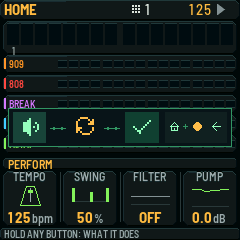
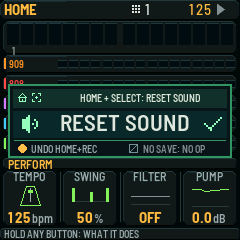
docs(mockups): clarify sound-reset chord and held FX effect display

Changed region(s): [[0.0292, 0.35, 0.9917, 0.6708]]

diff --git a/docs/mockups/items-4-6-7-0.0.24/render_only.c b/docs/mockups/items-4-6-7-0.0.24/render_only.c
@@ -8,40 +8,36 @@
 #include "../../../tests/host/smc_ui_test.c"
 #undef SMC_UI_MAIN
 
-static void mini_connector(int x,int y,uint16_t c)
-{
-    cv_line(x,y,x+15,y,c);
-    cv_rect(x+3,y-1,2,3,c);
-    cv_rect(x+11,y-1,2,3,c);
-}
 
 static void item4_sound_recall_proposal(void)
 {
     const uint16_t mint=RGB(149,255,185), edge=RGB(49,151,102);
-    const uint16_t gold=RGB(255,190,77);
-    const uint16_t face=RGB(12,31,32);
-    /* Transient native canvas overlay ON the existing HOME view. */
-    cv_begin(224,39,face);
-    cv_rect(0,0,224,39,RGB(8,23,26));
-    cv_rect(0,0,224,1,edge);
-    cv_rect(0,38,224,1,edge);
-    cv_rect(0,0,1,39,edge);
-    cv_rect(223,0,1,39,edge);
-    cv_rect(5,4,33,31,RGB(26,68,58));
-    ui_pictogram(13,10,UI_G_SOUND,2,mint);
-    mini_connector(42,20,edge);
-    ui_pictogram(68,9,UI_G_CYCLE,2,gold);
-    mini_connector(96,20,edge);
-    cv_rect(117,4,34,31,RGB(18,67,48));
-    ui_pictogram(125,10,UI_G_CHECK,2,mint);
-    /* The right-hand glyph chord shows HOME+REC for undo. */
-    cv_rect(157,4,62,31,RGB(19,35,36));
-    ui_pictogram(162,14,UI_G_HOME,1,mint);
-    cv_rect(175,18,5,1,edge);
-    cv_rect(177,16,1,5,edge);
-    ui_pictogram(185,14,UI_G_RECORD,1,gold);
-    ui_pictogram(204,14,UI_G_PREV,1,mint);
-    cv_blit(8,108);
+    const uint16_t gold=RGB(255,190,77), ghost=RGB(112,144,148);
+    /* Review-only transient notice over the real HOME framebuffer.
+     * Glyphs disambiguate the SMC HOME + strip SELECT shortcut from keyboard
+     * HOME + black key (mute). The latter is never shown in this proposal.
+     * Engine-only reset, with mixer state invariant; missing saved sound => no-op.
+     */
+    cv_begin(224,74,RGB(10,25,30));
+    cv_rect(0,0,224,74,RGB(9,23,28));
+    cv_rect(0,0,224,2,edge);
+    cv_rect(0,72,224,2,edge);
+    cv_rect(0,0,2,74,edge);
+    cv_rect(222,0,2,74,edge);
+    cv_rect(5,5,214,19,RGB(21,48,46));
+    ui_pictogram(10,9,UI_G_HOME,1,mint);
+    ui_pictogram(24,9,UI_G_SELECT,1,mint);
+    text_c(132,8,&FONT_T,"HOME + SELECT: RESET SOUND",C_WHITE);
+    cv_rect(5,27,214,27,RGB(15,41,41));
+    ui_pictogram(12,31,UI_G_SOUND,2,mint);
+    text_c(117,28,&FONT_M,"RESET SOUND",C_WHITE);
+    ui_pictogram(196,31,UI_G_CHECK,2,mint);
+    cv_rect(6,56,212,1,edge);
+    ui_pictogram(10,60,UI_G_RECORD,1,gold);
+    cv_text(23,59,&FONT_T,"UNDO HOME+REC",C_GRAY);
+    ui_pictogram(121,60,UI_G_FX_EMPTY,1,ghost);
+    cv_text(135,59,&FONT_T,"NO SAVE: NO OP",C_DIM);
+    cv_blit(8,84);
 }
 
 static void paint_fx_cell(int strip,int row,int glyph,uint16_t ink,int selected)
@@ -56,48 +52,83 @@ static void paint_fx_cell(int strip,int row,int glyph,uint16_t ink,int selected)
     cv_blit(x,y);
 }
 
+
+/* The audio effect's source name is still governed by the production
+ * SMCFX table. This fixture visualizes the REVERB effect on the Chicago
+ * SELECT FX button (index 3, page 0), rather than inventing a value. */
 static void item6_fx_proposal(int fill_active)
 {
     const uint16_t amber=RGB(255,190,77), bright=RGB(145,239,246);
     const uint16_t green=RGB(152,247,160), dim=RGB(45,70,72);
-    /* Item 6 changes only the existing eight-strip mixer window. A dedicated
-       BRK strip REC button (SMC note 2) is proposed as a drum-fill gesture.
-       FX button held on RVB SELECT remains momentary; arrows step its effect. */
     for(int n=0;n<8;n++) {
         int bus=smc_fx_bus_now((uint8_t)(24+n));
         if(bus<0) continue;
         unsigned fx=smcfx_strip_get(&smc.fx_strip,smc.fx_page,bus,SMCFX_SELECT);
         int symbol=smc_fx_symbol(fx);
         if(symbol==UI_G_NONE)symbol=UI_G_FX_EMPTY;
-        paint_fx_cell(n,3,symbol,n==5?bright:C_GRAY,n==5);
+        int highlighted=fill_active ? (n==5) : (n==3);
+        paint_fx_cell(n,3,symbol,highlighted?bright:C_GRAY,highlighted);
     }
-    /* Dedicated fill button has an unambiguous roll/step glyph, never CYC. */
-    paint_fx_cell(2,2,UI_G_FX_STUTTER,fill_active?C_WHITE:amber,1);
-    /* Two compact feedback islands in the existing 82px mixer footer. */
+    /* Verify the highlighted CHICAGO SELECT button really holds REVERB
+     * in the unchanged pinned base, rather than labeling an invented FX. */
+    if(!fill_active) {
+        int held_bus=smc_fx_bus_now(27u);
+        CHECK(held_bus==3);
+        CHECK(smcfx_strip_get(&smc.fx_strip,smc.fx_page,
+                              held_bus,SMCFX_SELECT)==SMCFX_REV);
+        CHECK(tw(&FONT_T,"HOME + SELECT: RESET SOUND")<185);
+        CHECK(tw(&FONT_M,"REVERB")<174);
+    }
+    /* BRK REC (note 2) is the proposed fill button, replacing one FX throw. */
+    paint_fx_cell(2,2,UI_G_FX_STUTTER,fill_active?C_WHITE:amber,fill_active);
+
     cv_begin(240,KNOB_H,C_BLACK);
     cv_rect(0,0,240,1,C_LINE);
-    cv_rect(5,7,108,67,RGB(14,27,32));
-    cv_rect(5,7,108,1,fill_active?C_WHITE:amber);
-    cv_rect(5,73,108,1,RGB(68,76,64));
-    cv_rect(125,7,110,67,RGB(15,32,37));
-    cv_rect(125,7,110,1,bright);
-    cv_rect(125,73,110,1,dim);
-    ui_pictogram(15,15,UI_G_PATTERN,2,amber);
-    ui_pictogram(49,14,UI_G_FX_STUTTER,2,fill_active?C_WHITE:amber);
-    ui_pictogram(84,19,fill_active?UI_G_PLAY:UI_G_HOLD,1,fill_active?green:C_GRAY);
-    for(int k=0;k<8;k++) {
-        int h=(k%3==0?12:k%3==1?7:16);
-        int x=12+k*12;
-        uint16_t c=fill_active && (k==1||k==3||k==5||k==6)?green:(k<5?amber:dim);
-        cv_rect(x,64-h,7,h,c);
-        cv_rect(x,65,7,2,dim);
+    if(!fill_active) {
+        /* One single footer, no confusing mini-grid. Both icon and text
+         * identify the HOLD + arrows instruction while the current effect
+         * name dominates. All primitives belong to the real firmware UI. */
+        cv_rect(5,5,230,72,RGB(13,31,36));
+        cv_rect(5,5,230,1,bright);
+        cv_rect(5,76,230,1,dim);
+        cv_rect(5,5,1,72,dim);
+        cv_rect(234,5,1,72,dim);
+        cv_rect(11,9,51,18,RGB(22,61,64));
+        ui_pictogram(15,10,UI_G_HOLD,1,amber);
+        ui_pictogram(33,10,UI_G_FX_REVERB,1,bright);
+        text_c(146,10,&FONT_B,"FX + < >",C_WHITE);
+        cv_rect(12,30,216,1,dim);
+        ui_pictogram(16,42,UI_G_PREV,2,bright);
+        ui_pictogram(206,42,UI_G_NEXT,2,bright);
+        text_c(120,34,&FONT_M,"REVERB",C_WHITE);
+        cv_rect(83,69,74,2,dim);
+        cv_rect(100,69,40,2,bright);
+    } else {
+        /* The fill screenshot is intentionally unchanged from v1 so the
+         * separate owner's fill-placement proposal stays reviewable. */
+        cv_rect(5,7,108,67,RGB(14,27,32));
+        cv_rect(5,7,108,1,C_WHITE);
+        cv_rect(5,73,108,1,RGB(68,76,64));
+        cv_rect(125,7,110,67,RGB(15,32,37));
+        cv_rect(125,7,110,1,bright);
+        cv_rect(125,73,110,1,dim);
+        ui_pictogram(15,15,UI_G_PATTERN,2,amber);
+        ui_pictogram(49,14,UI_G_FX_STUTTER,2,C_WHITE);
+        ui_pictogram(84,19,UI_G_PLAY,1,green);
+        for(int k=0;k<8;k++) {
+            int h=(k%3==0?12:k%3==1?7:16);
+            int x=12+k*12;
+            uint16_t c=(k==1||k==3||k==5||k==6)?green:(k<5?amber:dim);
+            cv_rect(x,64-h,7,h,c);
+            cv_rect(x,65,7,2,dim);
+        }
+        ui_pictogram(137,25,UI_G_PREV,2,bright);
+        ui_pictogram(166,21,UI_G_FX_REVERB,3,C_GRAY);
+        ui_pictogram(207,25,UI_G_NEXT,2,bright);
+        ui_pictogram(175,54,UI_G_HOLD,1,C_GRAY);
+        cv_rect(157,65,55,2,dim);
+        cv_rect(173,65,24,2,amber);
     }
-    ui_pictogram(137,25,UI_G_PREV,2,bright);
-    ui_pictogram(166,21,UI_G_FX_REVERB,3,fill_active?C_GRAY:C_WHITE);
-    ui_pictogram(207,25,UI_G_NEXT,2,bright);
-    ui_pictogram(175,54,UI_G_HOLD,1,C_GRAY);
-    cv_rect(157,65,55,2,dim);
-    cv_rect(173,65,24,2,fill_active?amber:bright);
     cv_blit(0,KNOB_Y);
 }
 

diff --git a/docs/mockups/items-4-6-7-0.0.24/README.md b/docs/mockups/items-4-6-7-0.0.24/README.md
@@ -31,8 +31,14 @@ parameters to their project-saved values**. It must not restore mixer
 level, pan, sends or mute. It must add one undo transaction so existing
 HOME+REC undoes the reset. No accidental navigation from the SELECT
 button on a successful chord. The transient sound/recall/check glyph
-uses the existing HOME screen, and its HOME+REC pictogram illustrates
-undo. The glyph changes only the mockup, not firmware behavior.
+uses the existing HOME screen. The native-font **"HOME + SELECT: RESET SOUND"**
+hint is paired with the HOME/SELECT and sound/check glyphs, while the larger
+**"RESET SOUND"** label makes the action clear at performance distance.
+The footer says **"UNDO HOME+REC"** and **"NO SAVE: NO OP"**: if the part
+has no saved sound, the eventual handler must **do nothing**, without a
+success notice or unintended navigation. Engine sound parameters are the
+only reset target; level, pan, sends and mute remain unchanged. The labels
+and glyphs here change only the mockup, not firmware behavior.
 
 ## Item 6: FX-page button priority and proposed fill placement
 
@@ -41,8 +47,13 @@ no full-screen modal screen or new page is added. A momentary FX button
 continues to represent one effect throw.
 
 * When **exactly one FX button is held**, `<` / `>` steps the effect
-  assigned to **that held button**, with the FX pictogram between native
-  previous/next pictograms. This wins over HOME navigation.
+  assigned to **that held button**. In the revised effect screenshot, the
+  highlighted CHICAGO SELECT FX cell is actually assigned REVERB on the
+  pinned factory map (verified in the render harness). The native
+  23-pixel font displays **"REVERB"** large in a **single, full-width
+  82-pixel footer**, beside clear arrow glyphs; the top hint reads
+  **"FX + < >"** beside an FX/held-button pictogram. No extra left
+  grid panel. This wins over HOME navigation.
 * **SMC HOME + `<` / `>` changes the FX page only when no FX button
   is held**. On the FX page SMC HOME (note 6) is itself an FX key,
   so its held effect takes priority. The keyboard HOME modifier is
